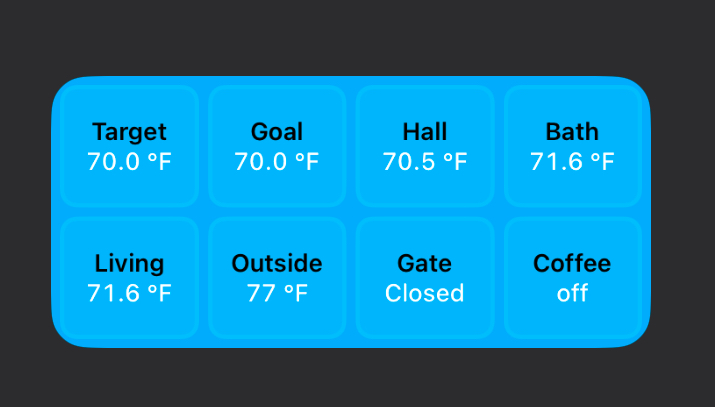
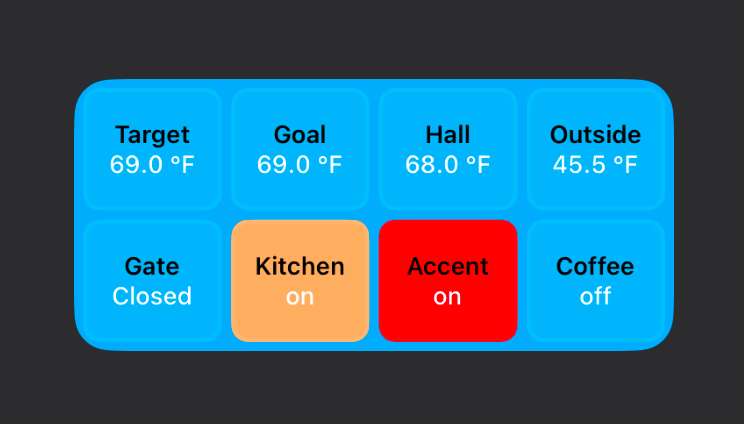
Tiles - Add support for coloring tile backgrounds to match HA entities

diff --git a/homeassistant_tiles.js b/homeassistant_tiles.js
@@ -35,10 +35,15 @@ label_color = Color.black();
 value_color = Color.white();
 value_color_on = Color.red(); // for entities with on/off state
 
+// when true, the tile for an entity will be the color
+// returned by Home Assistant. If no color is returned, the tile
+// will not be colored
+use_entity_color_tiles = true;
+
 // when true, the value for an entity will be the color
 // returned by Home Assistant. If no color is returned, the widget
 // will use the colors defined above
-use_entity_color = true;
+use_entity_color_values = false;
 
 // array of Home Assistant entities to be displayed
 entities = ['input_number.target_temperature','input_number.temp_goal',
@@ -99,8 +104,8 @@ for(i = 0; i < num_items; i++){ // for each entity we're interersted in
     // parse the response
     json = await req.loadJSON();
 
-    // if this is the first item of a new column
-    // add the necessary widget bits for the new column
+    // if this is the first item of a new row
+    // add the necessary widget bits for the new row
     if(i % num_items_per_row == 0){
         rowStack = bodyStack.addStack();
         rowStack.layoutHorizontally();
@@ -119,7 +124,10 @@ for(i = 0; i < num_items; i++){ // for each entity we're interersted in
     // add the label to the widget
     itemStack = rowStack.addStack();
     itemStack.layoutVertically();
-    itemStack.backgroundColor = new Color('#ffffff', 0.1);
+    if(use_entity_color_tiles && json['attributes']['rgb_color'] != null){
+        itemStack.backgroundColor = new Color(getHexForColor(json['attributes']['rgb_color']));
+    }else
+	    itemStack.backgroundColor = new Color('#ffffff', 0.1);
     itemStack.borderWidth = 5;
     itemStack.borderColor = new Color('#ffffff', 0.1);
     itemStack.cornerRadius = 10;
@@ -155,11 +163,8 @@ for(i = 0; i < num_items; i++){ // for each entity we're interersted in
     horizStack.addSpacer(); // so text will appear centered
     mytext = horizStack.addText(value_str);
     mytext.font = value_font;
-    if(use_entity_color && json['attributes']['rgb_color'] != null){
-        hex_str = '#' + json['attributes']['rgb_color'][0].toString(16).padStart(2, '0')
-            + json['attributes']['rgb_color'][1].toString(16).padStart(2, '0')
-            + json['attributes']['rgb_color'][2].toString(16).padStart(2, '0');
-        mytext.textColor = new Color(hex_str);
+    if(use_entity_color_values && json['attributes']['rgb_color'] != null){
+        mytext.textColor = new Color(getHexForColor(json['attributes']['rgb_color']));
     }else
         mytext.textColor = (value_color_on != null && json['state'] == 'on') ? value_color_on : value_color;
     horizStack.addSpacer(); // so text will appear centered
@@ -174,3 +179,10 @@ if (!config.runsInWidget) {
 // DONE!
 Script.setWidget(widget);
 Script.complete();
+
+function getHexForColor(rgb_color){
+    result = '#' + rgb_color[0].toString(16).padStart(2, '0')
+        + rgb_color[1].toString(16).padStart(2, '0')
+        + rgb_color[2].toString(16).padStart(2, '0');
+    return result;
+}

diff --git a/README.md b/README.md
@@ -1,6 +1,4 @@
-# scriptable_widgets
-
-A collection of widgets for use with Scriptable on iOS
+# Scriptable Widgets for Home Assistant
 
 ## Columns
 
@@ -13,14 +11,13 @@ A collection of widgets for use with Scriptable on iOS
 
 * A less dense layout than the columns widget
 * Inspired by the Apple Home Accessories widget
-* Entity states can be colored to match Home Assistant
+* Entity states and tile backgrounds can be colored to match Home Assistant
 
 ![image](images/homeassistant_tiles.jpg)
 
 ## Entity
 
-The entity widget displays data for a single Home Assistant entity
-
+* Displays a single entity
 * Supports "secondary info", similar the the Home Assistant Entities card
 * Widget background can be colored to match the entity
 
